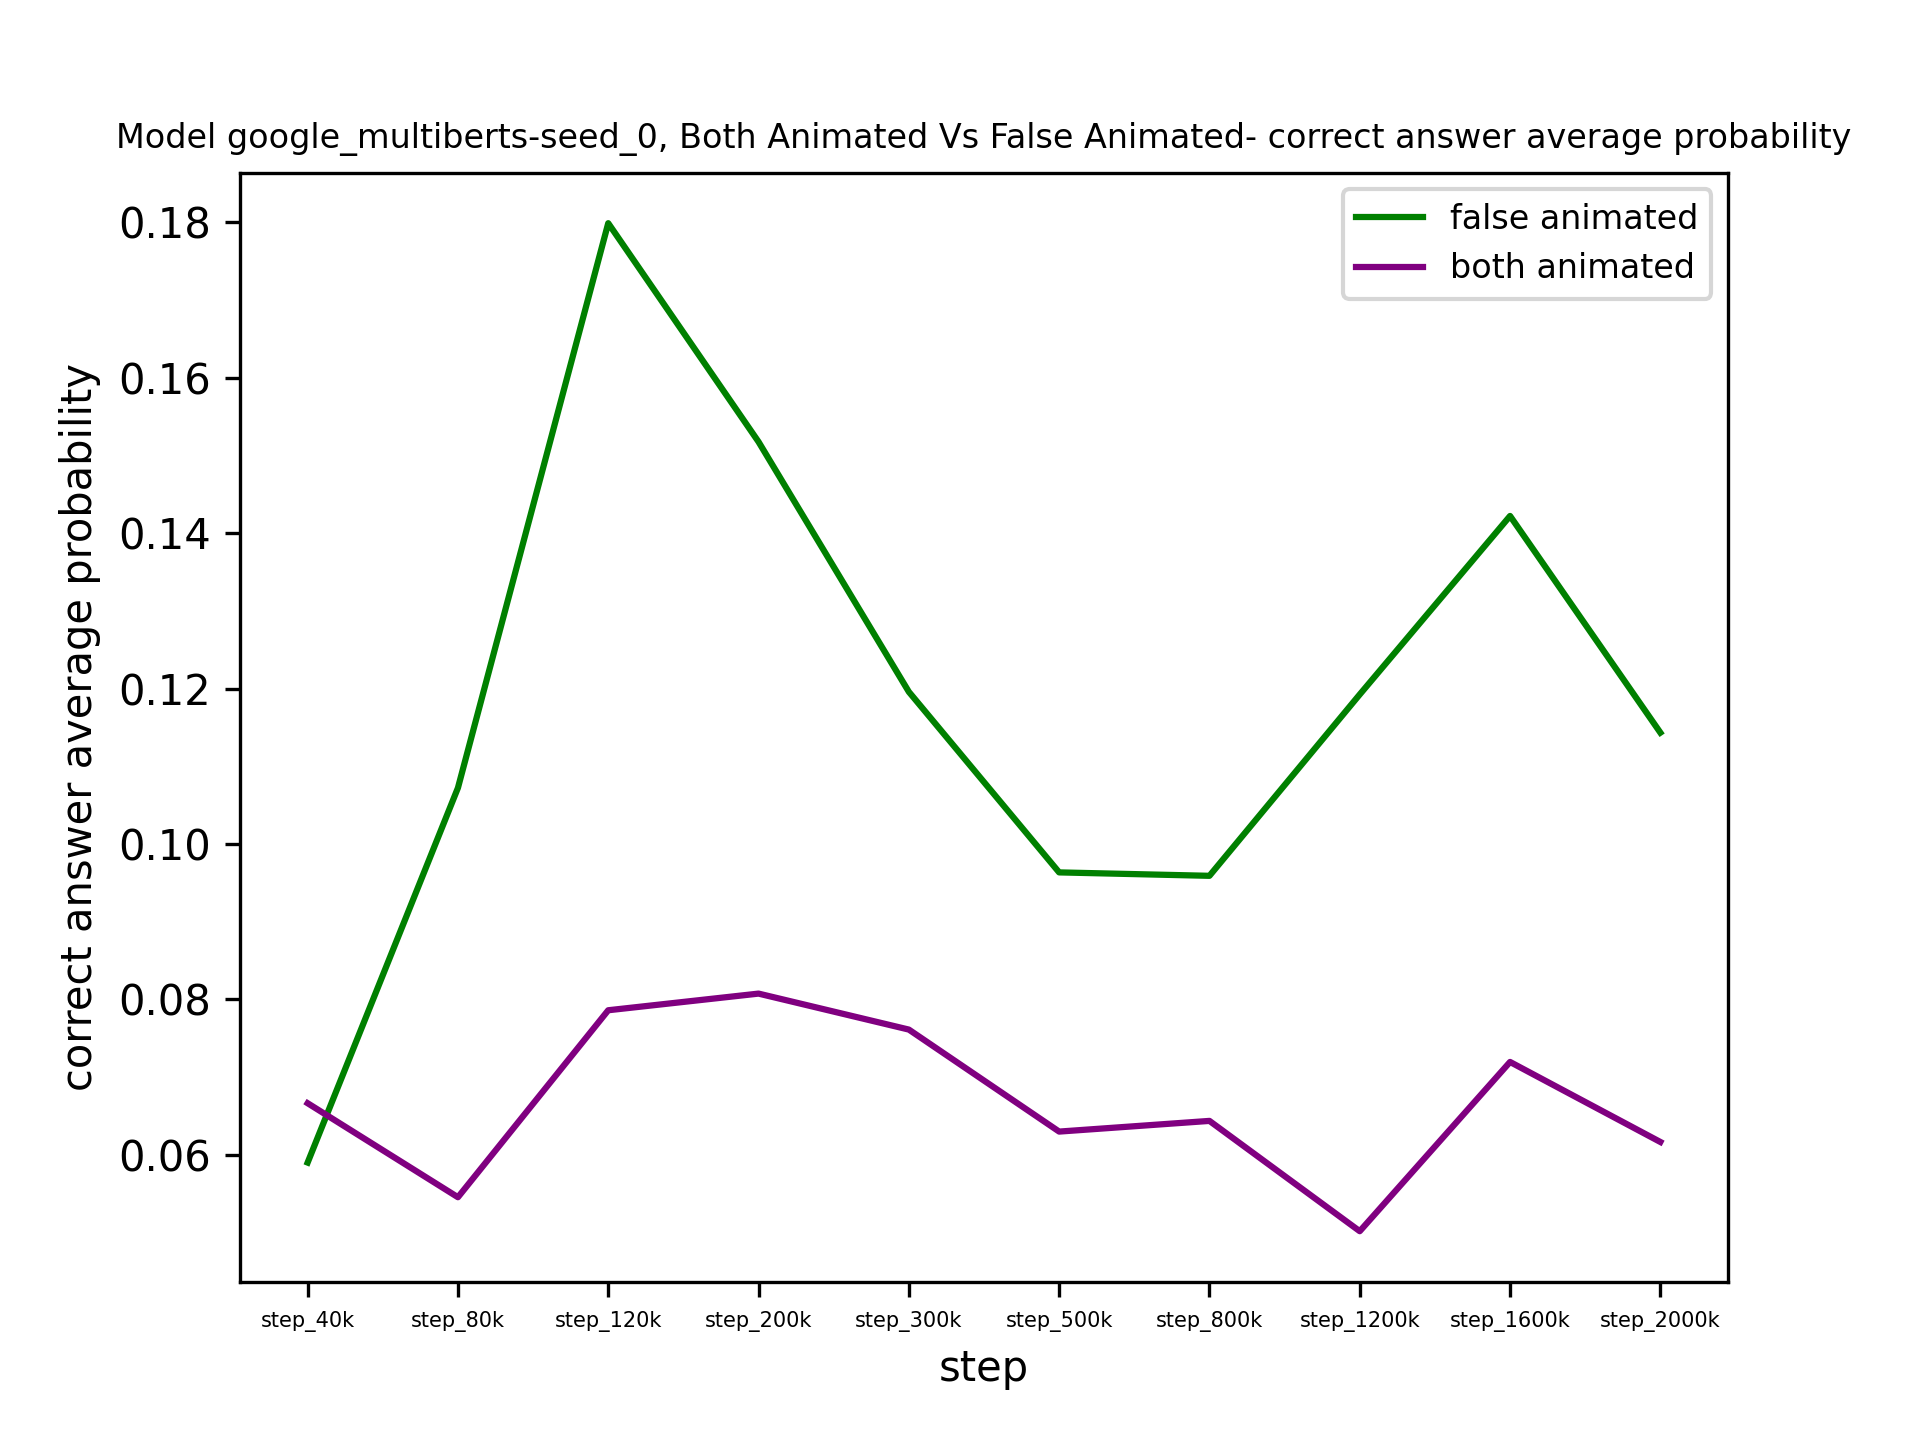
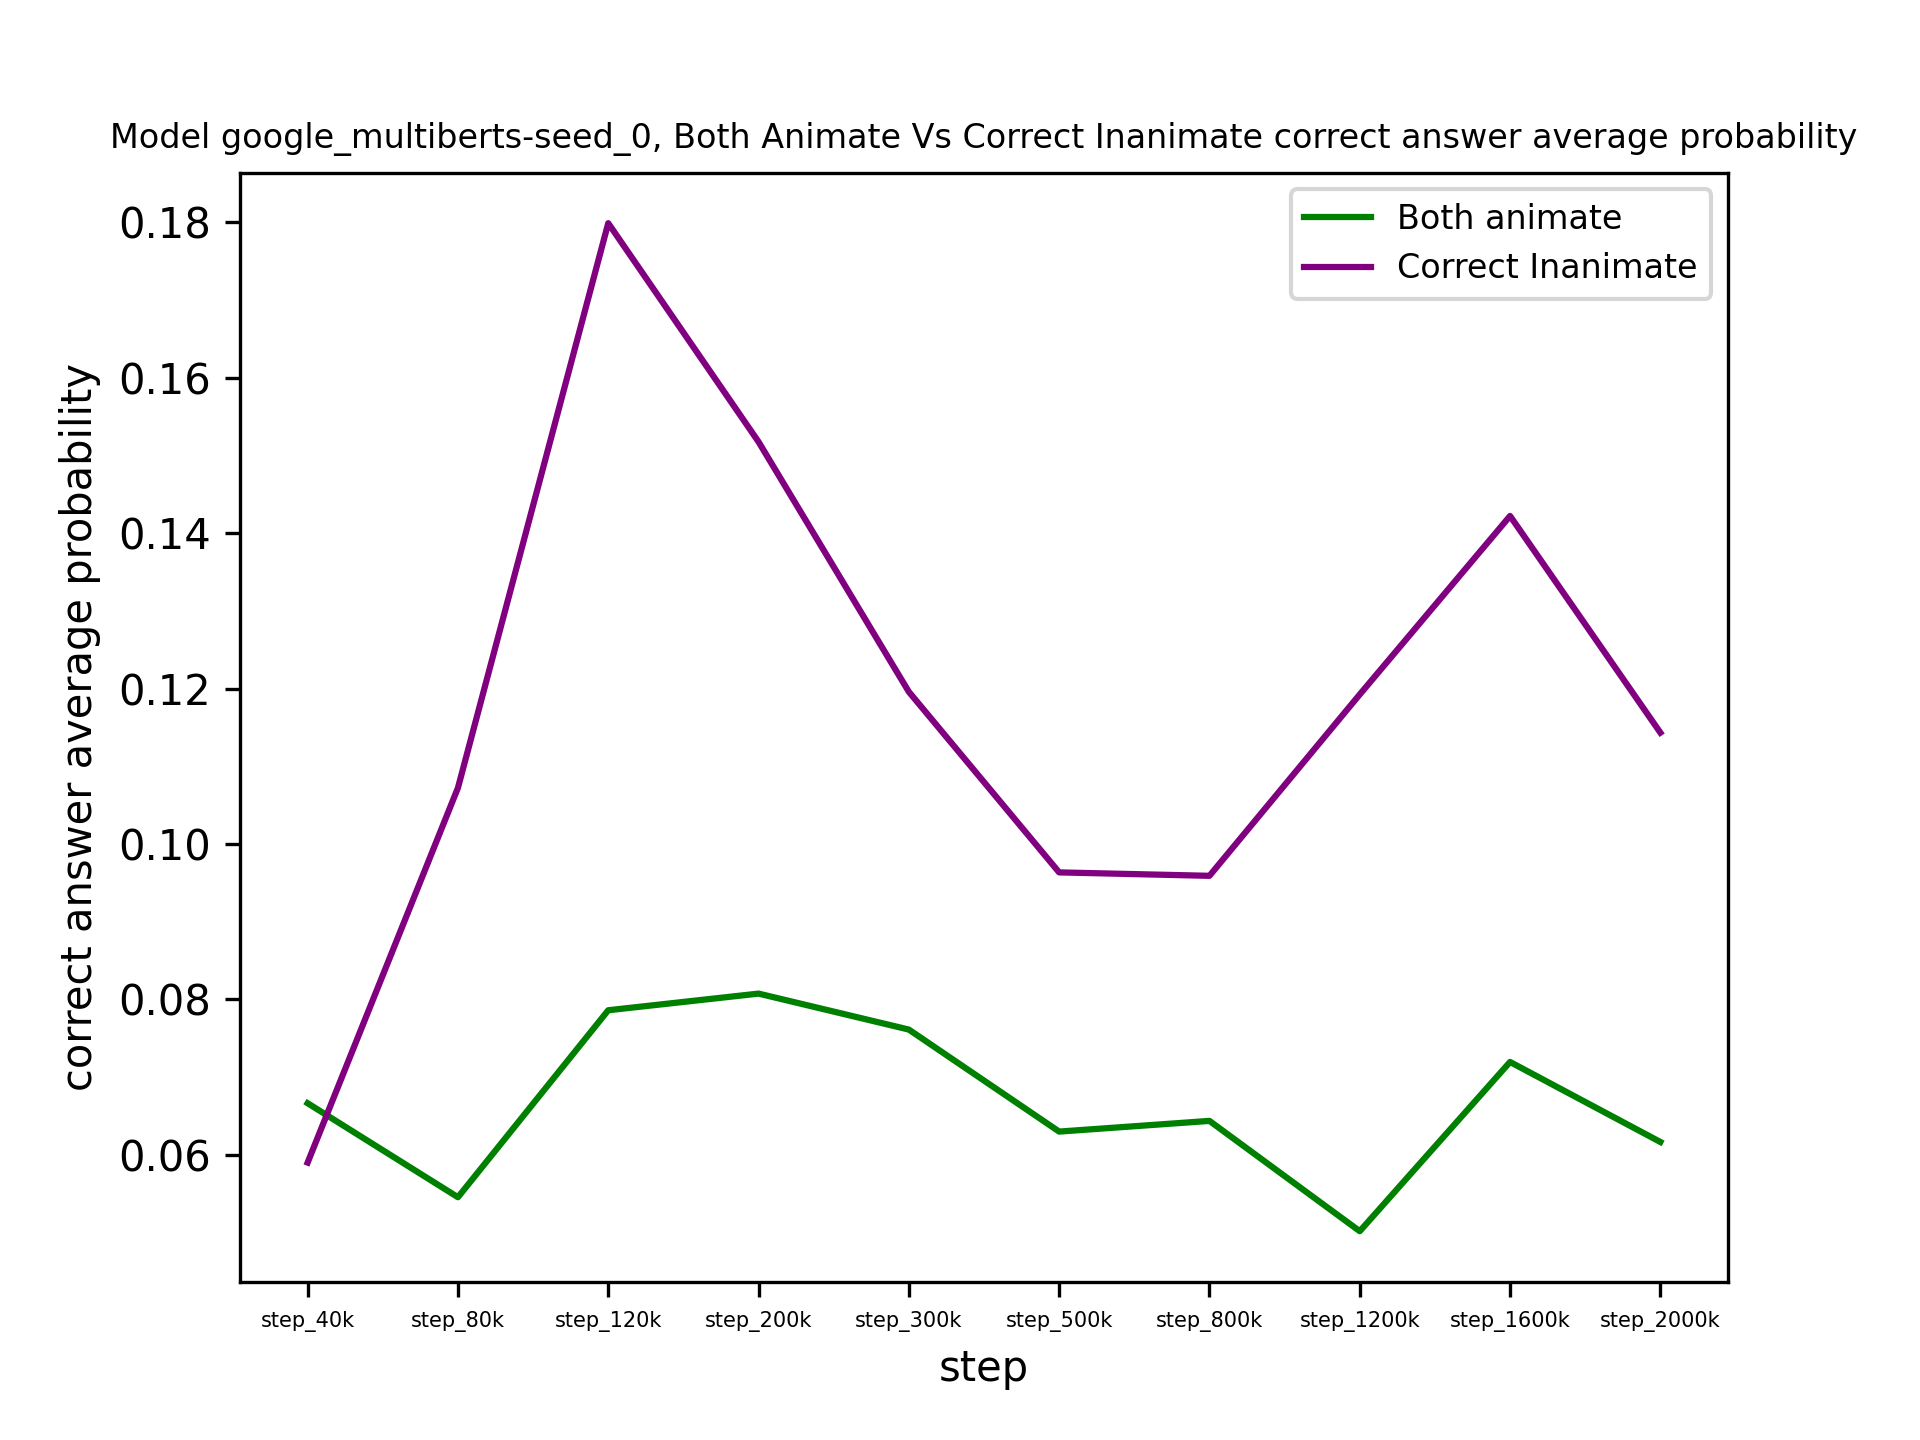
Animate plots small enhancements

diff --git a/analysis/analysis_scripts/plot_results.py b/analysis/analysis_scripts/plot_results.py
@@ -146,8 +146,8 @@ def truncate_df_to_model_and_sort(df,model):
 
 
 def plot_animate_results_specific_model():
-    false_animate_df = pd.read_csv(r'analysis\animate_state\false_animate_analysis.csv')
-    both_animate_df = pd.read_csv(r'analysis\animate_state\both_animate_analysis.csv')
+    false_animate_df = pd.read_csv(r'..\animate_state\false_animate_analysis.csv')
+    both_animate_df = pd.read_csv(r'..\animate_state\both_animate_analysis.csv')
     criteria_names = {'correct_mask1_avg': 'correct answer average probability',\
                       'false_mask1_avg': 'false answer average probability' ,'accuracy_mask1':'Accuracy'}
     apply_int_step_to_df([false_animate_df,both_animate_df])
@@ -157,23 +157,23 @@ def plot_animate_results_specific_model():
         false_animated_df_model= truncate_df_to_model_and_sort(false_animate_df,model)
         both_animated_df_model= truncate_df_to_model_and_sort(both_animate_df,model)
         for criteria,name in criteria_names.items():
-            legend_names=["false animated", "both animated"]
-            ycols = [false_animated_df_model[criteria], both_animated_df_model[criteria]]
+            legend_names=["Both animate", "Correct Inanimate"]
+            ycols = [both_animated_df_model[criteria], false_animated_df_model[criteria]]
             xcols = false_animated_df_model["model_step_int"]
             if name == "Accuracy":
                 ycols.append([Human_baselines[0] for i in range(len(xcols))])
                 ycols.append([Human_baselines[1] for i in range(len(xcols))])
-                legend_names.append("Human both animated")
-                legend_names.append("Human false animated")                
+                legend_names.append("Human both animate")
+                legend_names.append("Human correct inanimate")
             plot_results(
-            title=f"Model {model}, Both Animated Vs False Animated- {name}",
+            title=f"Model {model}, Both Animate Vs Correct Inanimate {name}",
             xlabel="step",
             ylabel=name,
             xaxis_col=xcols,
             yaxis_cols= ycols,
             xticks=false_animated_df_model["model_step"],
             legend_names=legend_names,
-            results_filename=rf"analysis\animate_state\animated_graphs\{model}_{name}.png"
+            results_filename=rf"..\animate_state\animated_graphs\{model}_{name}.png"
             )
 
 def plot_animate_results_all_models_in_graph():
@@ -192,18 +192,18 @@ def plot_animate_results_all_models_in_graph():
             ycols = []
             xcol1, xticks1, ycols1 = get_plot_values(inanimate_df, models, col_name=criteria)
             ycols.extend(ycols1)
-            legend_names.extend([model+" Both animated" for model in models])
+            legend_names.extend([model+" Both animate" for model in models])
             xcol2, xticks2, ycols2 = get_plot_values(animate_df, models, col_name=criteria)
             ycols.extend(ycols2)
-            legend_names.extend([model+" False animated" for model in models])
+            legend_names.extend([model+" Correct inanimate" for model in models])
             if name == "Accuracy":
                 ycols.append([Human_baselines[0] for i in range(len(xcol1))])
                 ycols.append([Human_baselines[1] for i in range(len(xcol1))])
-                legend_names.append("Human both animated")
-                legend_names.append("Human false animated")                
+                legend_names.append("Human both animate")
+                legend_names.append("Human false animate")
             model_name = models[0].split('/')[1].split('-')[0].capitalize()
             plot_results(
-            title=f"{model_name}, Both Animated Vs False Animated- {name}",
+            title=f"{model_name}, Both Animate Vs Correct Inanimate- {name}",
             xlabel="step",
             ylabel=name,
             xaxis_col=xcol1,
